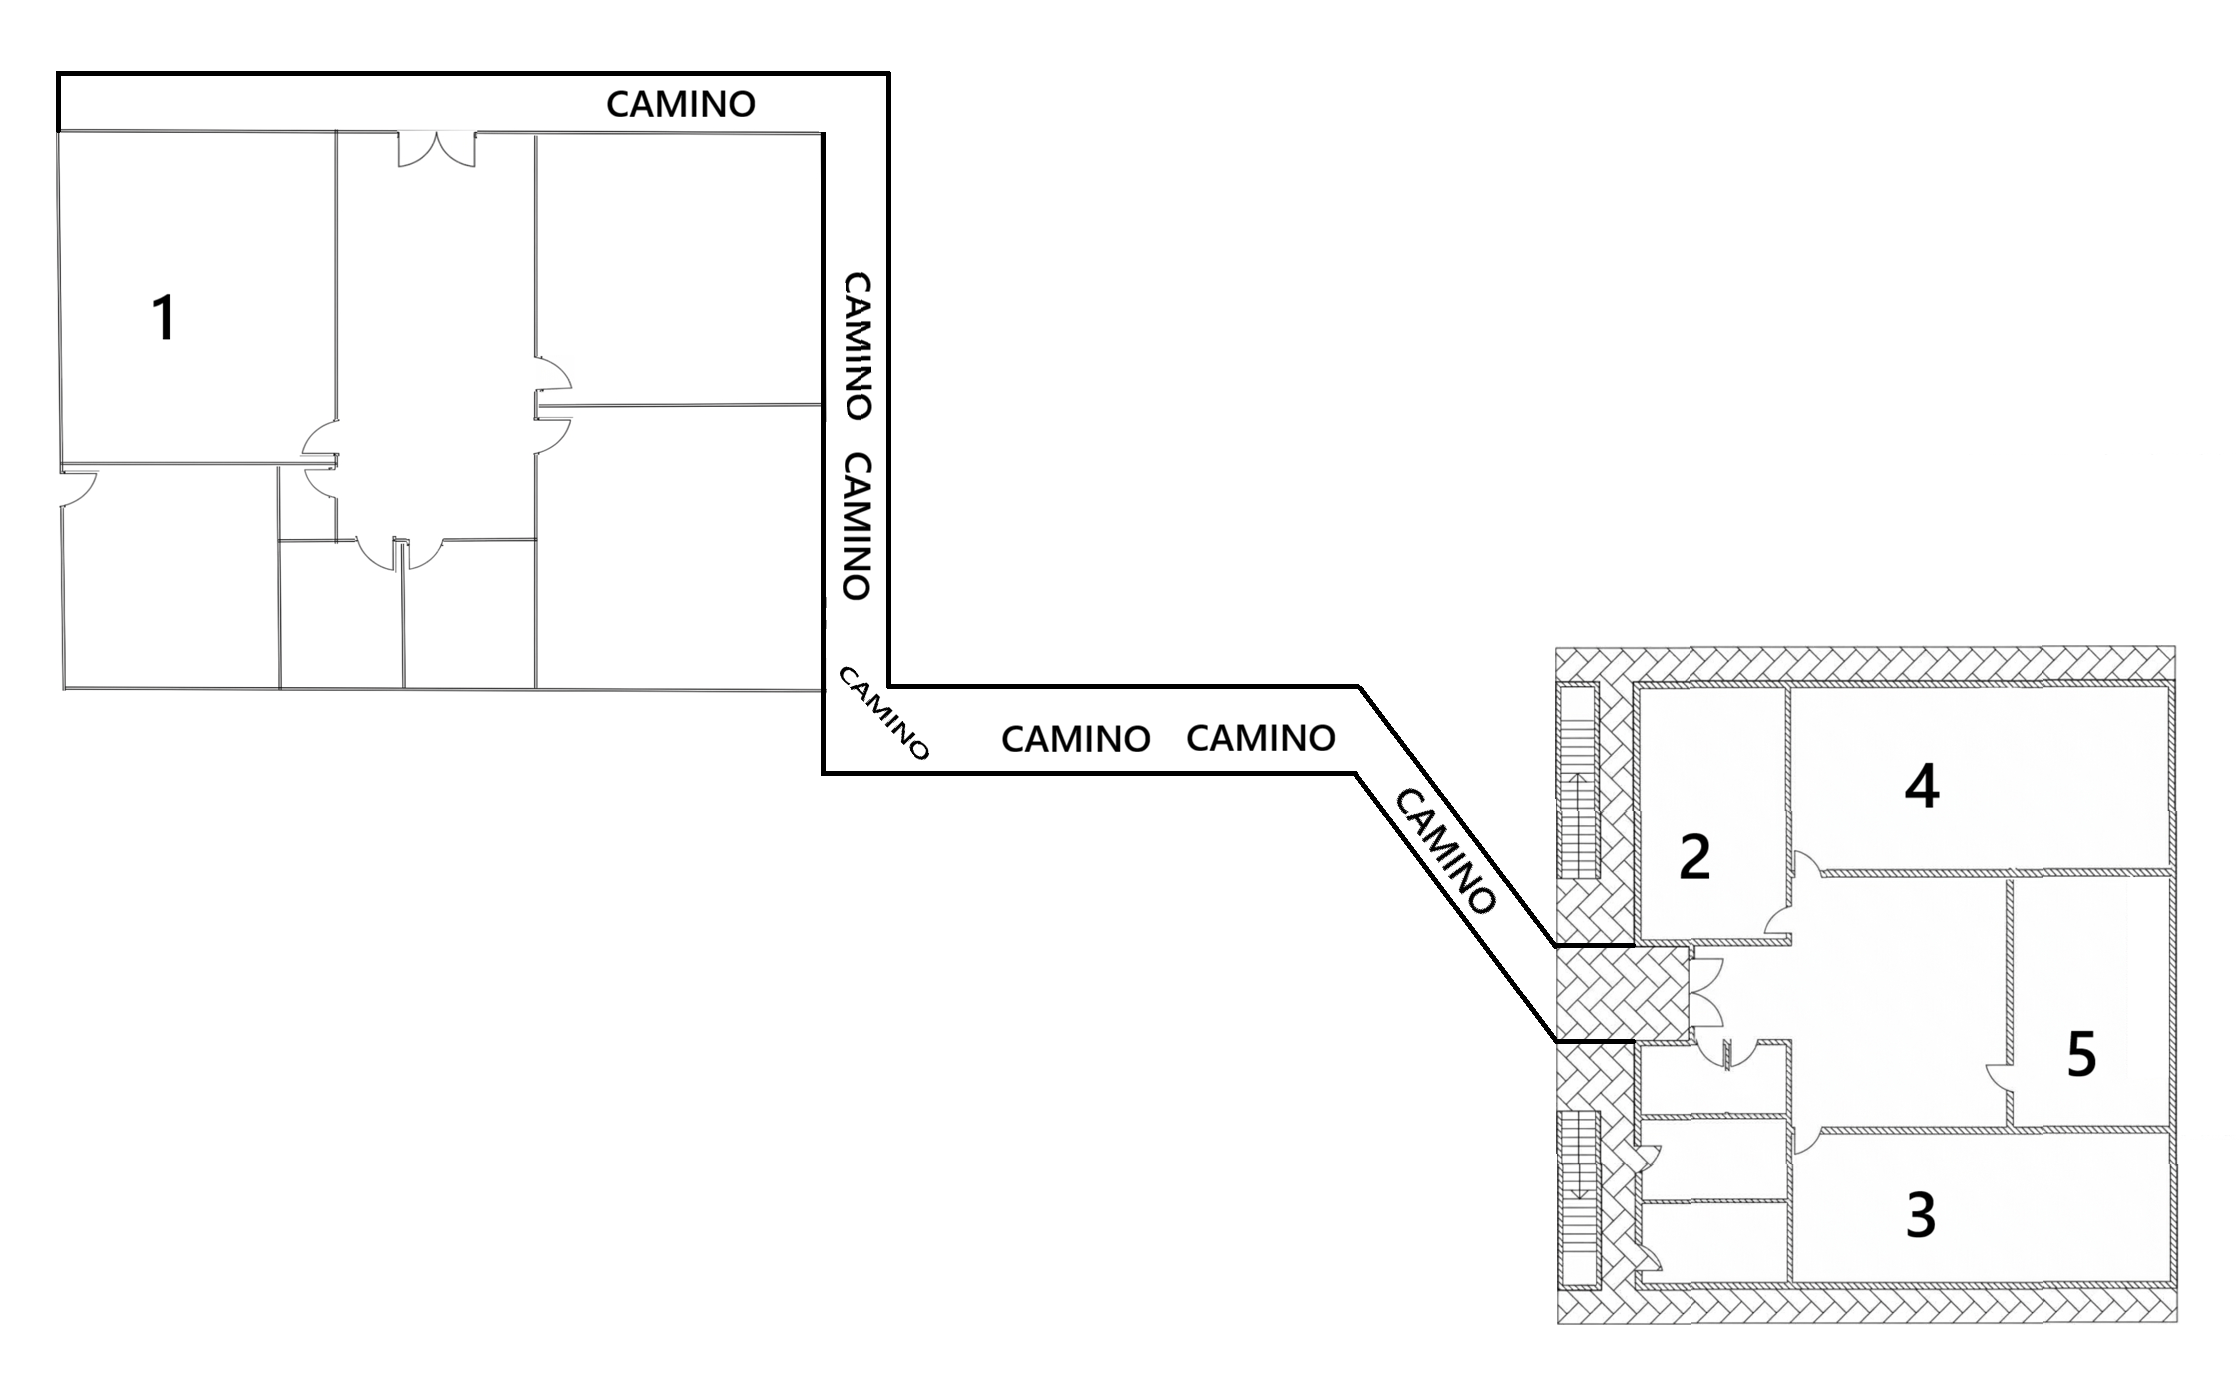
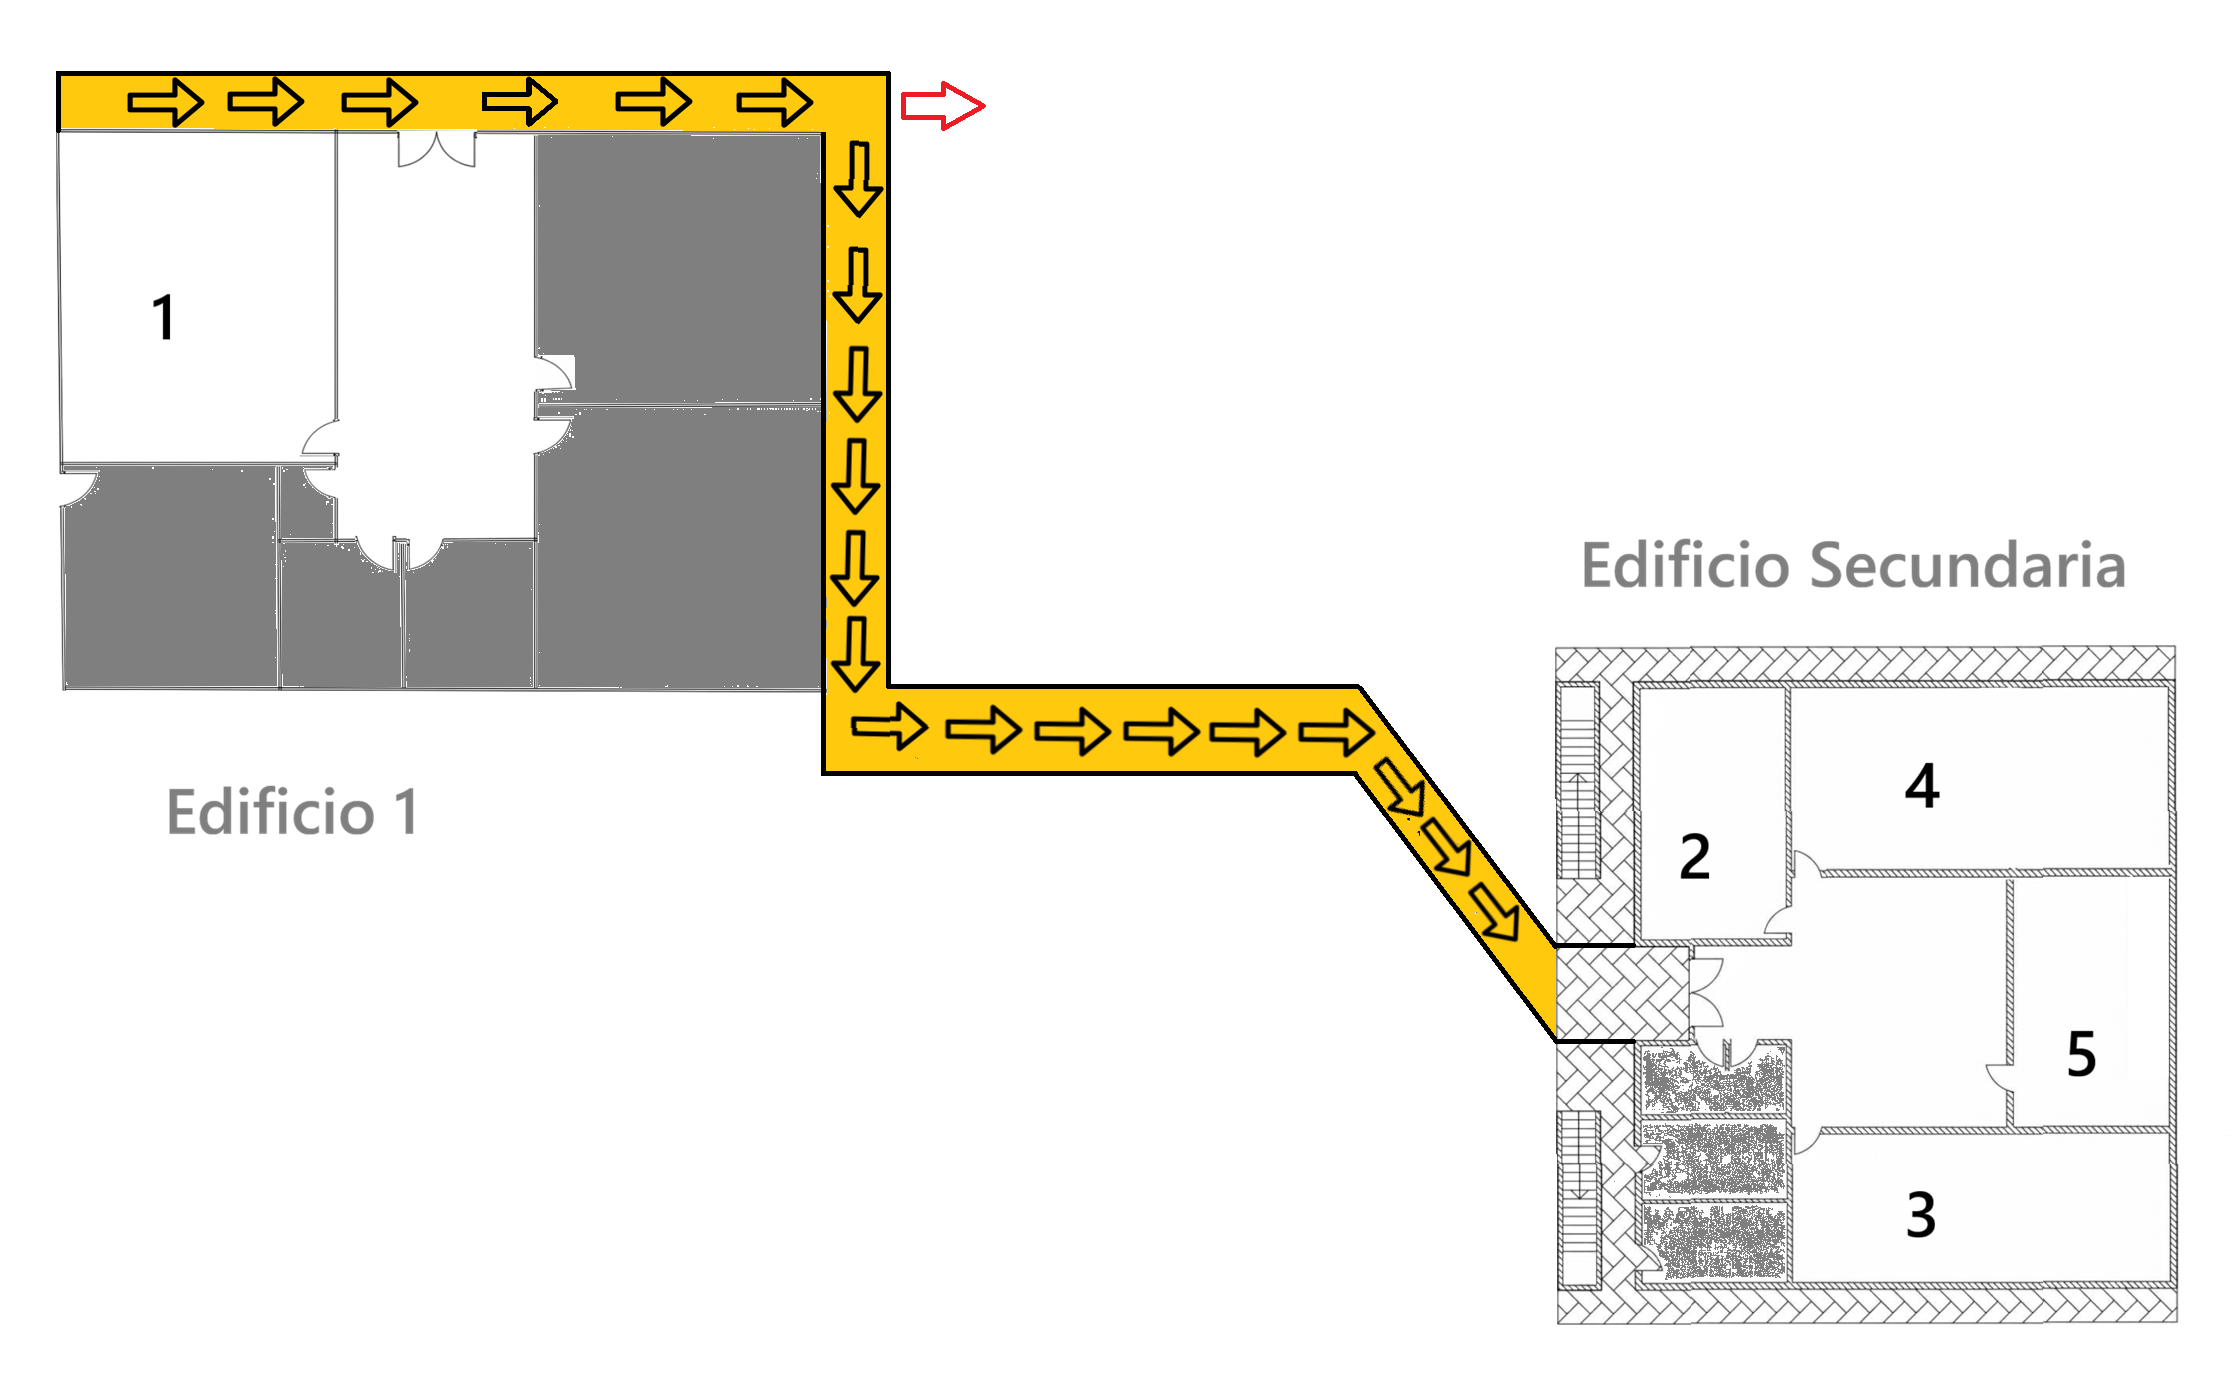
fix: actualizar mapa oficial y recolocar pines sobre los numeros

diff --git a/src/js/views/stands/stand01.js b/src/js/views/stands/stand01.js
@@ -13,7 +13,7 @@ export const STAND_01_INFO = {
   category: "Videojuegos y programación · 6.º año",
   badgeLabel: "STAND 01 · ESPECIAL",
   location: "Entrada / Detrás de la capilla / Sala de informática",
-  mapCoords: { x: 7, y: 23 },
+  mapCoords: { x: 12, y: 31 },
   description: "Videojuegos desarrollados por los estudiantes de 6.º año: creatividad, diseño, lógica y programación que se transforman en experiencias interactivas.",
   // Texto completo (según bienvenida InnovartTech GameZone): se muestra en la página del stand
   about: [

diff --git a/src/js/views/stands/stand03.js b/src/js/views/stands/stand03.js
@@ -13,7 +13,7 @@ export const STAND_03_INFO = {
   category: "Logística Autónoma · Pabellón B",
   badgeLabel: "STAND 03 · FLOTAS INTELIGENTES",
   location: "Pabellón B / Zona Logística Central",
-  mapCoords: { x: 86, y: 87 },
+  mapCoords: { x: 60, y: 70 },
   description: "Plataformas robóticas móviles omnidireccionales para almacenes automatizados y esquiva dinámica de peatones.",
   // Misión secreta: cromo escondido en esta estación (pista editable por el organizador)
   cromo: {

diff --git a/src/js/views/stands/stand02.js b/src/js/views/stands/stand02.js
@@ -13,7 +13,7 @@ export const STAND_02_INFO = {
   category: "Robótica Aérea · Zona de Vuelo",
   badgeLabel: "STAND 02 · AERO-ROBÓTICA",
   location: "Pabellón A / Zona de Vuelo Exterior",
-  mapCoords: { x: 75, y: 62 },
+  mapCoords: { x: 53, y: 55 },
   description: "Cuadricópteros con LiDAR y cámaras estereoscópicas capaces de navegar y esquivar obstáculos sin señal GPS.",
   // Misión secreta: cromo escondido en esta estación (pista editable por el organizador)
   cromo: {

diff --git a/src/js/views/stands/stand05.js b/src/js/views/stands/stand05.js
@@ -13,7 +13,7 @@ export const STAND_05_INFO = {
   category: "Biónica · Ala Médica Central",
   badgeLabel: "STAND 05 · BIOMEDICINA",
   location: "Pabellón Central / Ala Médica Biónica",
-  mapCoords: { x: 92, y: 76 },
+  mapCoords: { x: 63, y: 64 },
   description: "Estructuras biónicas de asistencia muscular motorizadas mediante señales electromiográficas (EMG) dérmicas.",
   // Misión secreta: cromo escondido en esta estación (pista editable por el organizador)
   cromo: {

diff --git a/src/js/views/stands/stand04.js b/src/js/views/stands/stand04.js
@@ -13,7 +13,7 @@ export const STAND_04_INFO = {
   category: "Bípedos · Arena de Pruebas",
   badgeLabel: "STAND 04 · HUMANOIDES",
   location: "Pabellón B / Arena de Pruebas",
-  mapCoords: { x: 86, y: 56 },
+  mapCoords: { x: 60, y: 51 },
   description: "Robots de silueta humana capaces de caminar sobre terrenos irregulares y mantener equilibrio frente a empujes dinámicos.",
   // Misión secreta: cromo escondido en esta estación (pista editable por el organizador)
   cromo: {
